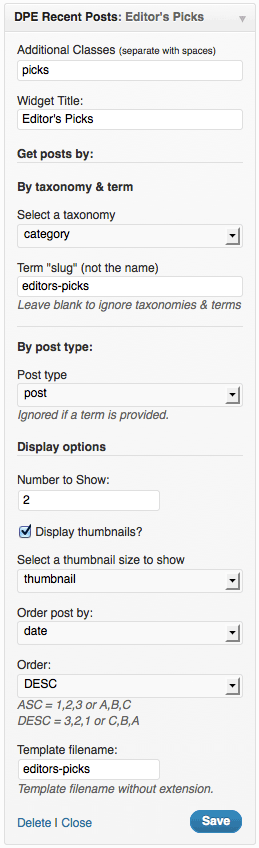
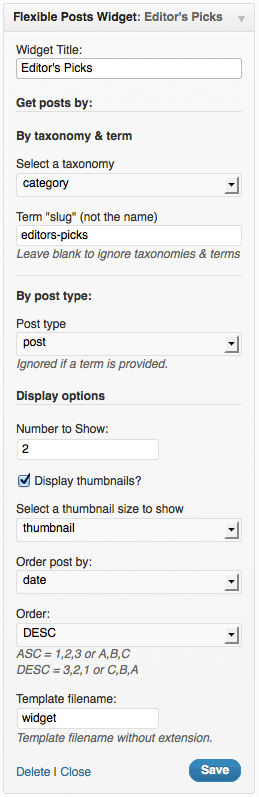
- Fixed PHP notices that showed in the admin when WP_DEBUG was enabled - Added some stub code for future admin JavaScripts to control the widget settings display (not active yet). - Readme.txt updates
git-svn-id: https://plugins.svn.wordpress.org/flexible-posts-widget/trunk@534326 b8457f37-d9ea-0310-8a92-e5e31aec5664

diff --git a/flexible-posts-widget.js b/flexible-posts-widget.js
@@ -1,0 +1,8 @@
+/*
+ * Flexible Posts Widget
+ * Admin Scripts
+ * Author: dpe415
+ * URI: http://wordpress.org/extend/plugins/flexible-posts-widget/
+ */
+
+// Nothing here yet...

diff --git a/flexible-posts-widget.php b/flexible-posts-widget.php
@@ -2,9 +2,9 @@
 /*
 Plugin Name: Flexible Posts Widget
 Plugin URI: http://wordpress.org/extend/plugins/flexible-posts-widget/
-Author: David Paul Ellenwood
+Author: dpe415
 Author URI: http://dpedesign.com
-Version: 1.0.2
+Version: 1.0.3
 Description: An advanced posts display widget with many options: post by taxonomy & term or post type, thumbnails, order & order by, customizable templates
 */
 
@@ -25,22 +25,30 @@ class DPE_Flexible_Posts_Widget extends WP_Widget {
 	
     /** constructor */
     function DPE_Flexible_Posts_Widget() {
-        parent::WP_Widget(false, $name = 'Flexible Posts Widget');	
+		
+        parent::WP_Widget(false, $name = 'Flexible Posts Widget');
+		//$this->register_sns();
+		/*
+		global $pagenow;
+		if (defined("WP_ADMIN") && WP_ADMIN) {
+			if ( 'widgets.php' == $pagenow ) {
+				wp_enqueue_script( 'dpe-flexible-posts-widget' );
+			}
+		}
+		*/
     }
+
+	function register_sns() {
+		$dir = plugins_url('/', __FILE__);
+		wp_register_script( 'dpe-flexible-posts-widget', $dir . 'flexible-posts-widget.js', array('jquery','thickbox'), false, true );
+	}
+	
 
     /** @see WP_Widget::widget */
     function widget($args, $instance) {	
         extract( $args );
-        $title 		= apply_filters('widget_title', $instance['title']);		
-		$taxonomy	= esc_attr( $instance['taxonomy'] );
-        $term 		= esc_attr( $instance['term'] );
-        $number 	= esc_attr( (int)$instance['number'] );
-        $thumb_size = esc_attr( $instance['thumb_size'] );
-        $thumbnail 	= esc_attr( $instance['thumbnail'] );
-        $posttype 	= esc_attr( $instance['posttype'] );
-		$orderby	= esc_attr( $instance['orderby'] );
-		$order		= esc_attr( $instance['order'] );
-		$template	= esc_attr( $instance['template'] );
+		extract( $instance );
+		$title = apply_filters( 'widget_title', empty( $title ) ? '' : $title );
 		
 		if( empty($template) )
 			$template = 'widget';
@@ -73,8 +81,10 @@ class DPE_Flexible_Posts_Widget extends WP_Widget {
 		// Get the posts for this instance
 		$flexible_posts = new WP_Query( $args );
 		
+		// Get and include the template we're going to use
 		include( $this->getTemplateHierarchy( $template ) );
 		
+		// Be sure to reset any post_data before proceeding
 		wp_reset_postdata();
         
     }
@@ -84,14 +94,14 @@ class DPE_Flexible_Posts_Widget extends WP_Widget {
 		global $posttypes;
 		$instance 				= $old_instance;
 		$instance['title']		= strip_tags( $new_instance['title'] );
+		$instance['posttype']	= $new_instance['posttype'];
 		$instance['taxonomy']	= $new_instance['taxonomy'];
 		$instance['term']		= strip_tags( $new_instance['term'] );
 		$instance['number']		= strip_tags( $new_instance['number'] );
-		$instance['thumb_size']	= $new_instance['thumb_size'];
-		$instance['thumbnail']	= $new_instance['thumbnail'];
-		$instance['posttype']	= $new_instance['posttype'];
 		$instance['orderby']	= $new_instance['orderby'];
 		$instance['order']		= $new_instance['order'];
+		$instance['thumb_size']	= $new_instance['thumb_size'];
+		$instance['thumbnail']	= $new_instance['thumbnail'];
 		$instance['template']	= strip_tags( $new_instance['template'] );
         return $instance;
     }
@@ -101,43 +111,24 @@ class DPE_Flexible_Posts_Widget extends WP_Widget {
 		
 		$posttypes = get_post_types('', 'objects');
 		$taxonomies = get_taxonomies('', 'objects'); 
+		$orderbys = array( 'ID', 'title', 'date', 'rand', 'menu_order', );
+		$orders = array( 'ASC', 'DESC', );
+		$thumb_sizes = get_intermediate_image_sizes();		
+
+		$instance = wp_parse_args( (array) $instance, array(
+			'title'		=> '',
+			'posttype'	=> 'post',
+			'taxonomy'	=> '',
+			'term'		=> '',
+			'number'	=> '',
+			'orderby'	=> 'date',
+			'order'		=> 'DESC',
+			'thumbnail' => false,
+			'thumbsize' => '',
+			'template'	=> 'widget',
+		) );
 		
-		$orderbys = array(
-			'ID',
-			'title',
-			'date',
-			'rand',
-			'menu_order',
-		);
-		
-		$orders = array(
-			'ASC',
-			'DESC',
-		);
-		
-		$thumb_sizes = get_intermediate_image_sizes();
-		
-		if( !empty($instance) ) {
-			$title		= esc_attr ($instance['title'] );
-			$taxonomy	= esc_attr( $instance['taxonomy'] );
-			$term		= esc_attr( $instance['term'] );
-			$number		= esc_attr( $instance['number'] );
-			$thumb_size	= esc_attr( $instance['thumb_size'] );
-			$thumbnail	= esc_attr( $instance['thumbnail'] );
-			$posttype	= esc_attr( $instance['posttype'] );
-			$orderby	= esc_attr( $instance['orderby'] );
-			$order		= esc_attr( $instance['order'] );
-			$template	= esc_attr( $instance['template'] );
-		}
-		
-		if( empty($orderby) )
-			$orderby = 'date';
-		
-		if( empty($order) )
-			$order = 'DESC';
-			
-		if( empty($template) )
-			$template = 'widget';
+		extract( $instance );
 		
         ?>
          <p>
@@ -188,7 +179,7 @@ class DPE_Flexible_Posts_Widget extends WP_Widget {
 			<select class="widefat" name="<?php echo $this->get_field_name('thumb_size'); ?>" id="<?php echo $this->get_field_id('thumb_size'); ?>">
 				<?php
 				foreach ($thumb_sizes as $option) {
-					echo '<option value="' . $option . '" id="' . $option . '"', $thumb_size == $option ? ' selected="selected"' : '', '>', $option, '</option>';
+					echo '<option value="' . $option . '" id="' . $option . '"', $thumbsize == $option ? ' selected="selected"' : '', '>', $option, '</option>';
 				}
 				?>
 			</select>		

diff --git a/views/widget.php b/views/widget.php
@@ -9,7 +9,7 @@ if ( !defined('ABSPATH') )
 
 echo $before_widget;
 
-if ( $title )
+if ( !empty($title) )
 	echo $before_title . $title . $after_title;
 	
 	if( $flexible_posts->have_posts() ):
@@ -19,8 +19,8 @@ if ( $title )
 			<li id="post-<?php the_ID(); ?>" <?php post_class(); ?>>
 				<a href="<?php echo the_permalink(); ?>">
 					<?php
-						if($thumbnail == true)
-							the_post_thumbnail($thumb_size);
+						if( $thumbnail == true )
+							the_post_thumbnail( $thumbsize );
 					?>
 					<h4 class="title"><?php the_title(); ?></h4>
 				</a>
